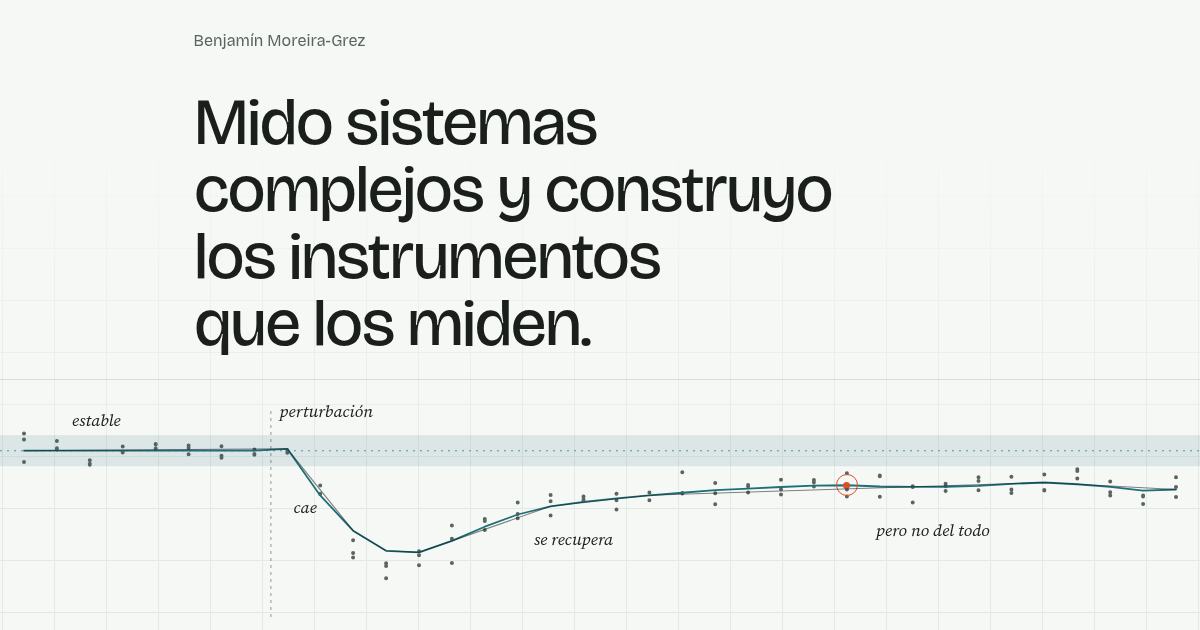
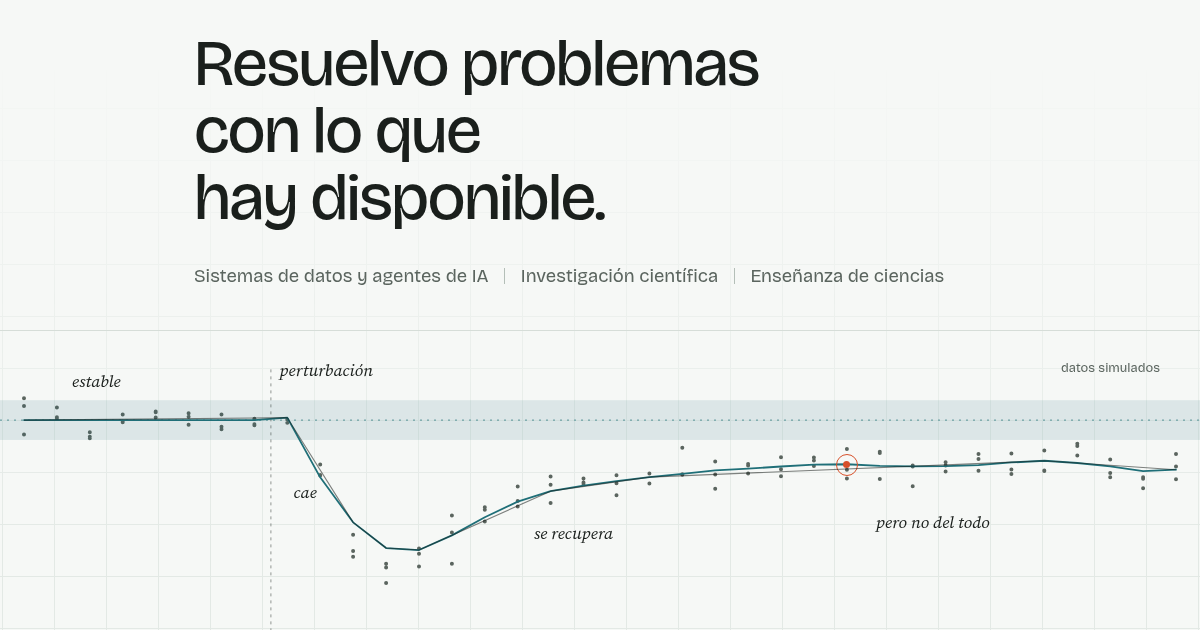
og.png con el titular actual («Resuelvo problemas con lo que hay disponible»); README con cómo regenerarlo
Claude-Session: https://claude.ai/code/session_01SWrANnXKgWQh3PHwExA4YR

diff --git a/README.md b/README.md
@@ -25,6 +25,9 @@ Publicado con GitHub Pages desde la rama `main`, raíz del repositorio: https://
   en un cuadro de `requestAnimationFrame`, hasta 56 px en escritorio y 18 px en móvil. Con
   `prefers-reduced-motion` no se mueve nada; sin JS la página queda completa y quieta.
 - `og.png` (1200×630) es una captura del hero con movimiento reducido; se rehace si cambia el hero.
+  Regenerar (2026-10-05): copia temporal de `index.html` con `nav{display:none}`, Chrome headless
+  `--force-prefers-reduced-motion --window-size=1200,780 --virtual-time-budget=8000`, y
+  `convert … -crop 1200x630+0+88` (titular, subtítulo y serie completa).
 - Anchos en `rem`/`em`, no en `ch`: `ch` depende de la fuente y hacía saltar la página al cargar
   Bricolage. Los respaldos `Bricolage Respaldo` y `Source Serif Respaldo` usan `size-adjust`
   medido contra Arial y Georgia por la misma razón.
